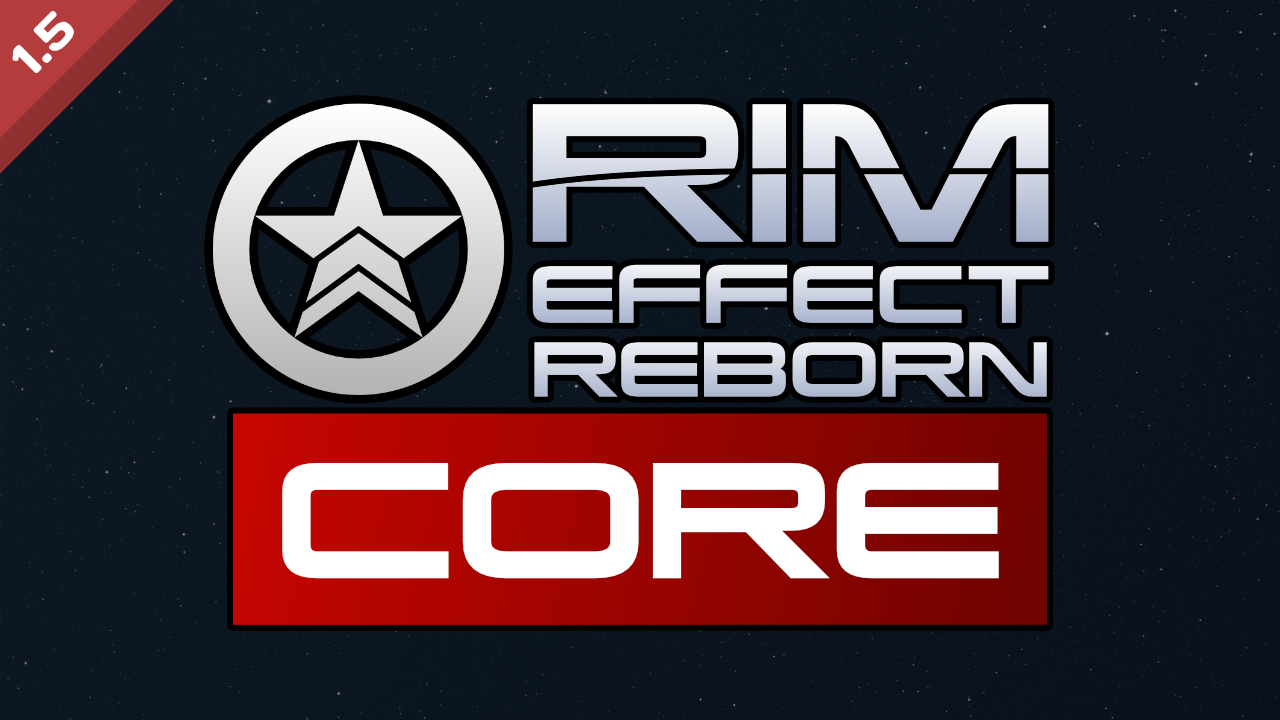
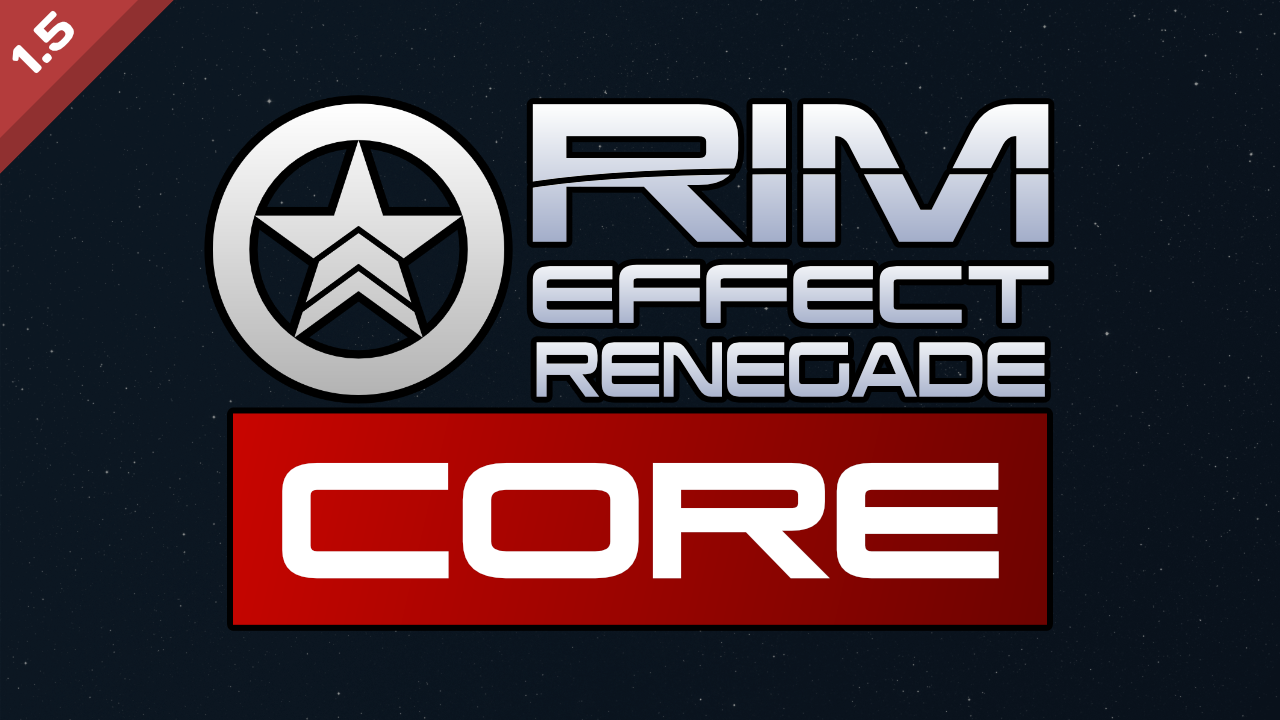
Renegade Rename

Changed region(s): [[0.4062, 0.4583, 0.8438, 0.5806]]

diff --git a/1.5/Source/RimEffect/RimEffectMod.cs b/1.5/Source/RimEffect/RimEffectMod.cs
@@ -32,7 +32,7 @@ namespace RimEffect
             Version version = Assembly.GetExecutingAssembly().GetName().Version;
             CurrentVersion = $"{version.Major}.{version.Minor}.{version.Build}";
 
-            Log.Message($":: Rim-Effect Reborn: Core :: {CurrentVersion} ::".Colorize(Color.cyan));
+            Log.Message($":: Rim-Effect Renegade: Core :: {CurrentVersion} ::".Colorize(Color.cyan));
 
             if (Prefs.DevMode)
             {
